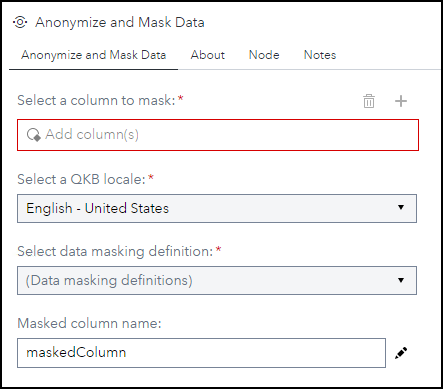
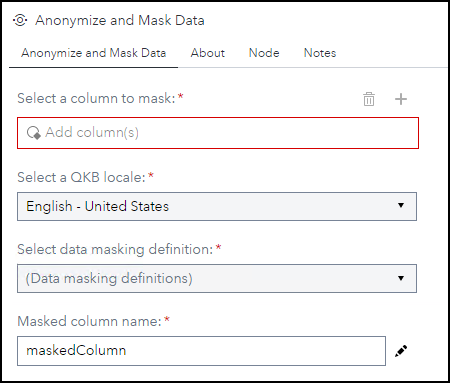
version 1.1 update

diff --git a/Anonymize and Mask Data/README.md b/Anonymize and Mask Data/README.md
@@ -13,11 +13,9 @@ Note: This custom step is related to the [DQ - Standardize](https://github.com/s
    | Standalone mode | Flow mode |
    | --- | --- |
    | ![](img/Anonymize_and_Mask_Data_StandAlone.png) | ![](img/Anonymize_and_Mask_Data_Flow.png) |
-
 * ### **About** tab ###
 
    ![](img/Anonymize_and_Mask_Data_About.png)
-
 ## Requirements
 
 * SAS Viya 2020.1.5 or later
@@ -30,5 +28,7 @@ Note: This custom step is related to the [DQ - Standardize](https://github.com/s
 
 ## Change Log
 
-* Version 1 (15SEP2022)
+* Version 1.1 (27SEP2022)
+    * Made New Column control required
+* Version 1.0 (15SEP2022)
     * Initial version
